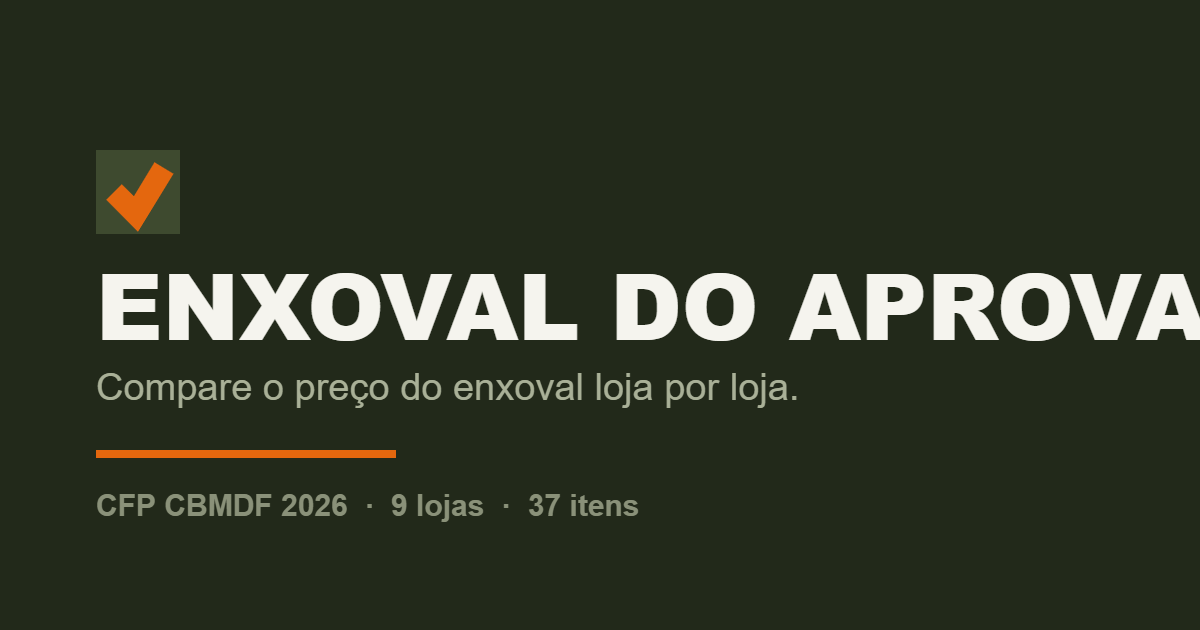
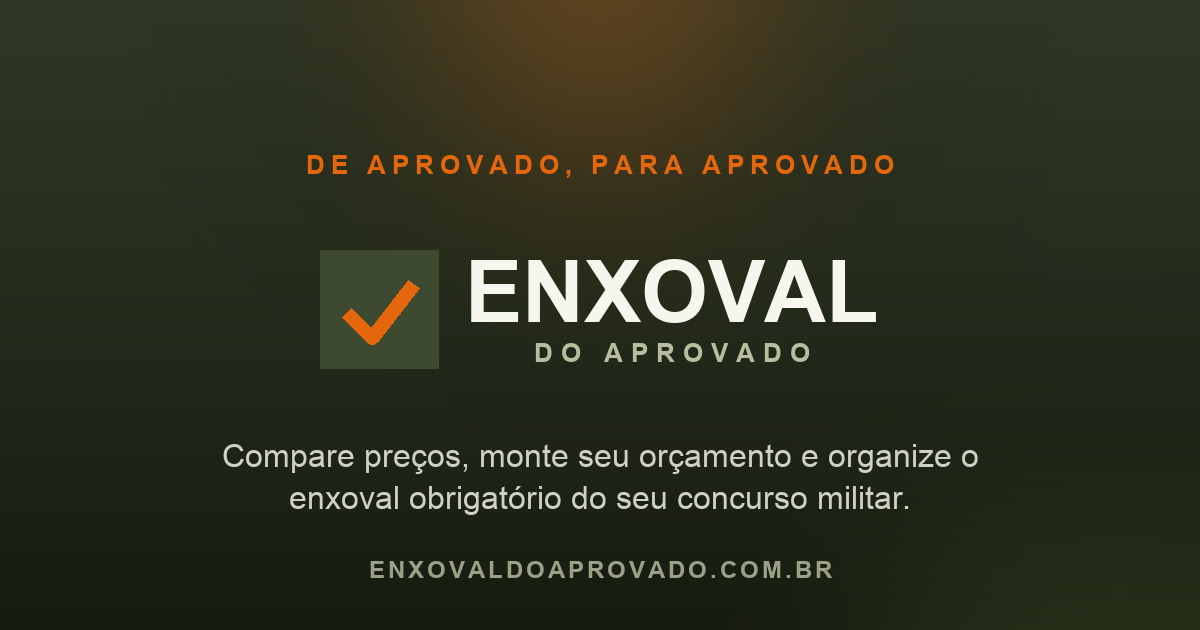
Cartão de compartilhamento (OG): imagem genérica e bem enquadrada
- Regenera o og.png (1200x630) com conteúdo genérico e centralizado na zona
  segura: marca "Enxoval do Aprovado", lema "De aprovado, para aprovado" e
  subtítulo sobre o enxoval do concurso militar — sem CBMDF nem contagens
  (que estavam embutidas e desatualizadas), e sem cortes no WhatsApp.
- Atualiza description/og:description/twitter:description para texto genérico.
- og:image/twitter:image com ?v=2 para o WhatsApp/Facebook buscarem a nova
  imagem em vez do cache antigo.

diff --git a/index.html b/index.html
@@ -6,20 +6,20 @@
 <title>Enxoval do Aprovado</title>
 <meta name="author" content="Aprovados em concursos militares">
 <meta name="robots" content="index,follow">
-<meta name="description" content="Calculadora e pesquisa de preços do enxoval obrigatório dos CFP's militares.">
+<meta name="description" content="Compare preços, monte seu orçamento e organize o enxoval obrigatório do seu concurso militar.">
 <!-- Cartão de compartilhamento (WhatsApp/redes) -->
 <meta property="og:type" content="website">
 <meta property="og:site_name" content="Enxoval do Aprovado">
 <meta property="og:title" content="Enxoval do Aprovado">
-<meta property="og:description" content="Compare os preços das lojas, monte seu orçamento e acompanhe o que já comprou.">
+<meta property="og:description" content="Compare preços, monte seu orçamento e organize o enxoval obrigatório do seu concurso militar. De aprovado, para aprovado.">
 <meta property="og:url" content="https://enxovaldoaprovado.com.br/">
-<meta property="og:image" content="https://enxovaldoaprovado.com.br/og.png">
+<meta property="og:image" content="https://enxovaldoaprovado.com.br/og.png?v=2">
 <meta property="og:image:width" content="1200">
 <meta property="og:image:height" content="630">
 <meta name="twitter:card" content="summary_large_image">
 <meta name="twitter:title" content="Enxoval do Aprovado">
-<meta name="twitter:description" content="Compare os preços das lojas, monte seu orçamento e acompanhe o que já comprou.">
-<meta name="twitter:image" content="https://enxovaldoaprovado.com.br/og.png">
+<meta name="twitter:description" content="Compare preços, monte seu orçamento e organize o enxoval obrigatório do seu concurso militar. De aprovado, para aprovado.">
+<meta name="twitter:image" content="https://enxovaldoaprovado.com.br/og.png?v=2">
 <meta name="theme-color" content="#22291A">
 <meta name="apple-mobile-web-app-capable" content="yes">
 <meta name="mobile-web-app-capable" content="yes">
